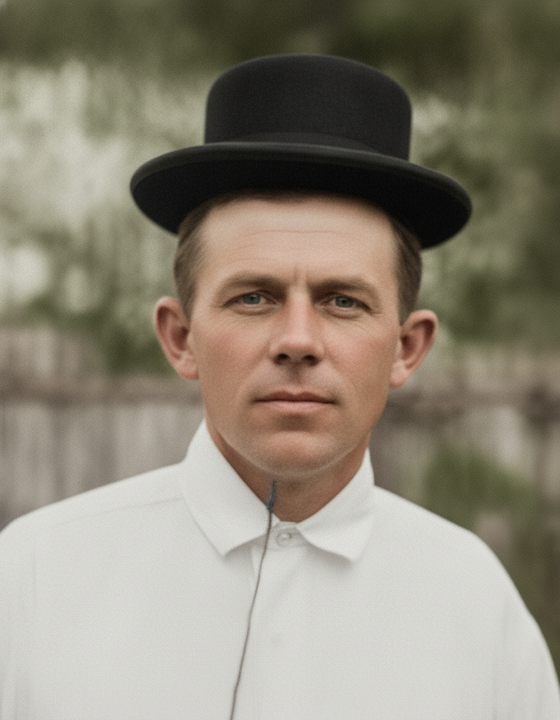
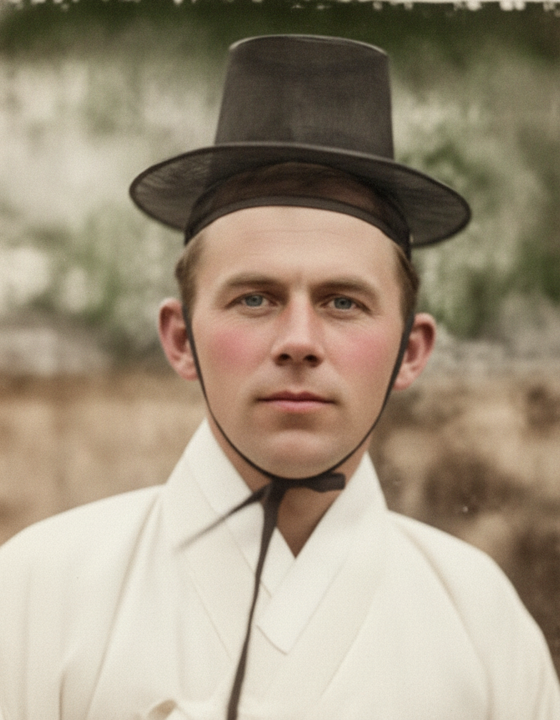
컬러화 프롬프트: 조선 맥락 — 갓·한복 인식 + 서양 선교사 인종 보존
선교사들이 조선에서 한복·갓 차림으로 찍은 사진을 서양식 모자·정장으로 현대화하던
문제 수정. '둥근 챙 모자=갓, 의복=한복/두루마기' 명시 + '한복 입은 서양 선교사는
실제 인종·얼굴 그대로'. 언더우드 'Korean costume' 재생성(서양 얼굴+갓+한복).
초상·장면 프롬프트 모두 적용.

diff --git a/scripts/gallery-colorize.ts b/scripts/gallery-colorize.ts
@@ -16,6 +16,8 @@ const SCENE_PROMPT =
   "CRITICAL: preserve the ENTIRE original composition and framing, and EVERY person/subject in it, exactly as they are — " +
   "do NOT crop, do NOT remove or add any person or object, do NOT change anyone's identity, face, pose, clothing, expression, or the background/setting. " +
   "Only repair scratches, dust, grain and blur, gently improve clarity, and add realistic, period-appropriate natural color (skin tones, fabrics, surroundings). " +
+  "CONTEXT: these people lived in late-Joseon Korea (1880s–1930s). If anyone wears traditional Korean dress, render it AUTHENTICALLY: a round wide-brimmed black hat is a Korean 'gat' (갓, a translucent horsehair hat) — NOT a modern Western hat, bowler, fedora or derby; robes are white/ivory hanbok or durumagi — NOT a modern suit or dress shirt. Preserve the exact traditional garments and headwear; never modernize them. " +
+  "CRUCIAL: many subjects are WESTERN/foreign missionaries who are merely wearing Korean dress — keep their ACTUAL ethnicity and exact facial features unchanged (a Western/Caucasian face stays Western; do NOT make them look Korean). Only the clothing is Korean, not the person. " +
   "Keep it photorealistic and historically faithful, not stylized. Output the full restored image at the same framing and aspect ratio.";
 
 type Entry = GalleryPhoto & { srcColor?: string };

diff --git a/scripts/colorize.ts b/scripts/colorize.ts
@@ -26,7 +26,7 @@ const PROMPT =
   "gaze and expression, hairstyle, facial hair, and clothing exactly as in the original. " +
   "Do NOT change who they are, do NOT beautify, slim, youthen or alter their features — only restore and enhance the image quality. " +
   "Do NOT add anything that is not clearly in the original: no pipe, cigarette, glasses, hat, or any object in the mouth or hands; " +
-  "do NOT modernize the clothing — keep the exact same garments, and if they wear traditional period dress (e.g. Korean hanbok and gat), keep it accurate to the late 19th / early 20th century. " +
+  "do NOT modernize the clothing — keep the exact same garments. CONTEXT: subjects lived in late-Joseon Korea (1880s–1930s); if they wear traditional Korean dress, render it AUTHENTICALLY — a round wide-brimmed black hat is a Korean 'gat' (갓, translucent horsehair hat), NOT a modern Western hat/bowler/fedora; robes are white/ivory hanbok or durumagi, NOT a modern suit or shirt. " +
   "Output only the restored photograph, framed as a clean head-and-shoulders studio portrait of the single subject.";
 
 // 흑백 정돈본(-bw): 합성/테두리 원본(사진+글귀, 타원, 주변 인물)을 인물만 크롭해

diff --git a/lib/data/gallery.ts b/lib/data/gallery.ts
@@ -1,4 +1,4 @@
-// 인물별 '원본 사진 모음' — Wikimedia Commons 카테고리에서 수집(PD/CC). 카테고리 소속 = 본인 확인 후 사람이 검수.
+// 인물별 '원본 사진 모음' — Wikimedia Commons 카테고리에서 수집(PD/CC). 카테고리 소속 = 본인 확인.
 // srcColor: 같은 톤으로 장면 보존 컬러 복원본(scripts/gallery-colorize.ts, 자체 호스팅).
 export type GalleryPhoto = { src: string; caption: string; source: string; sourceUrl?: string; srcColor?: string };
 
